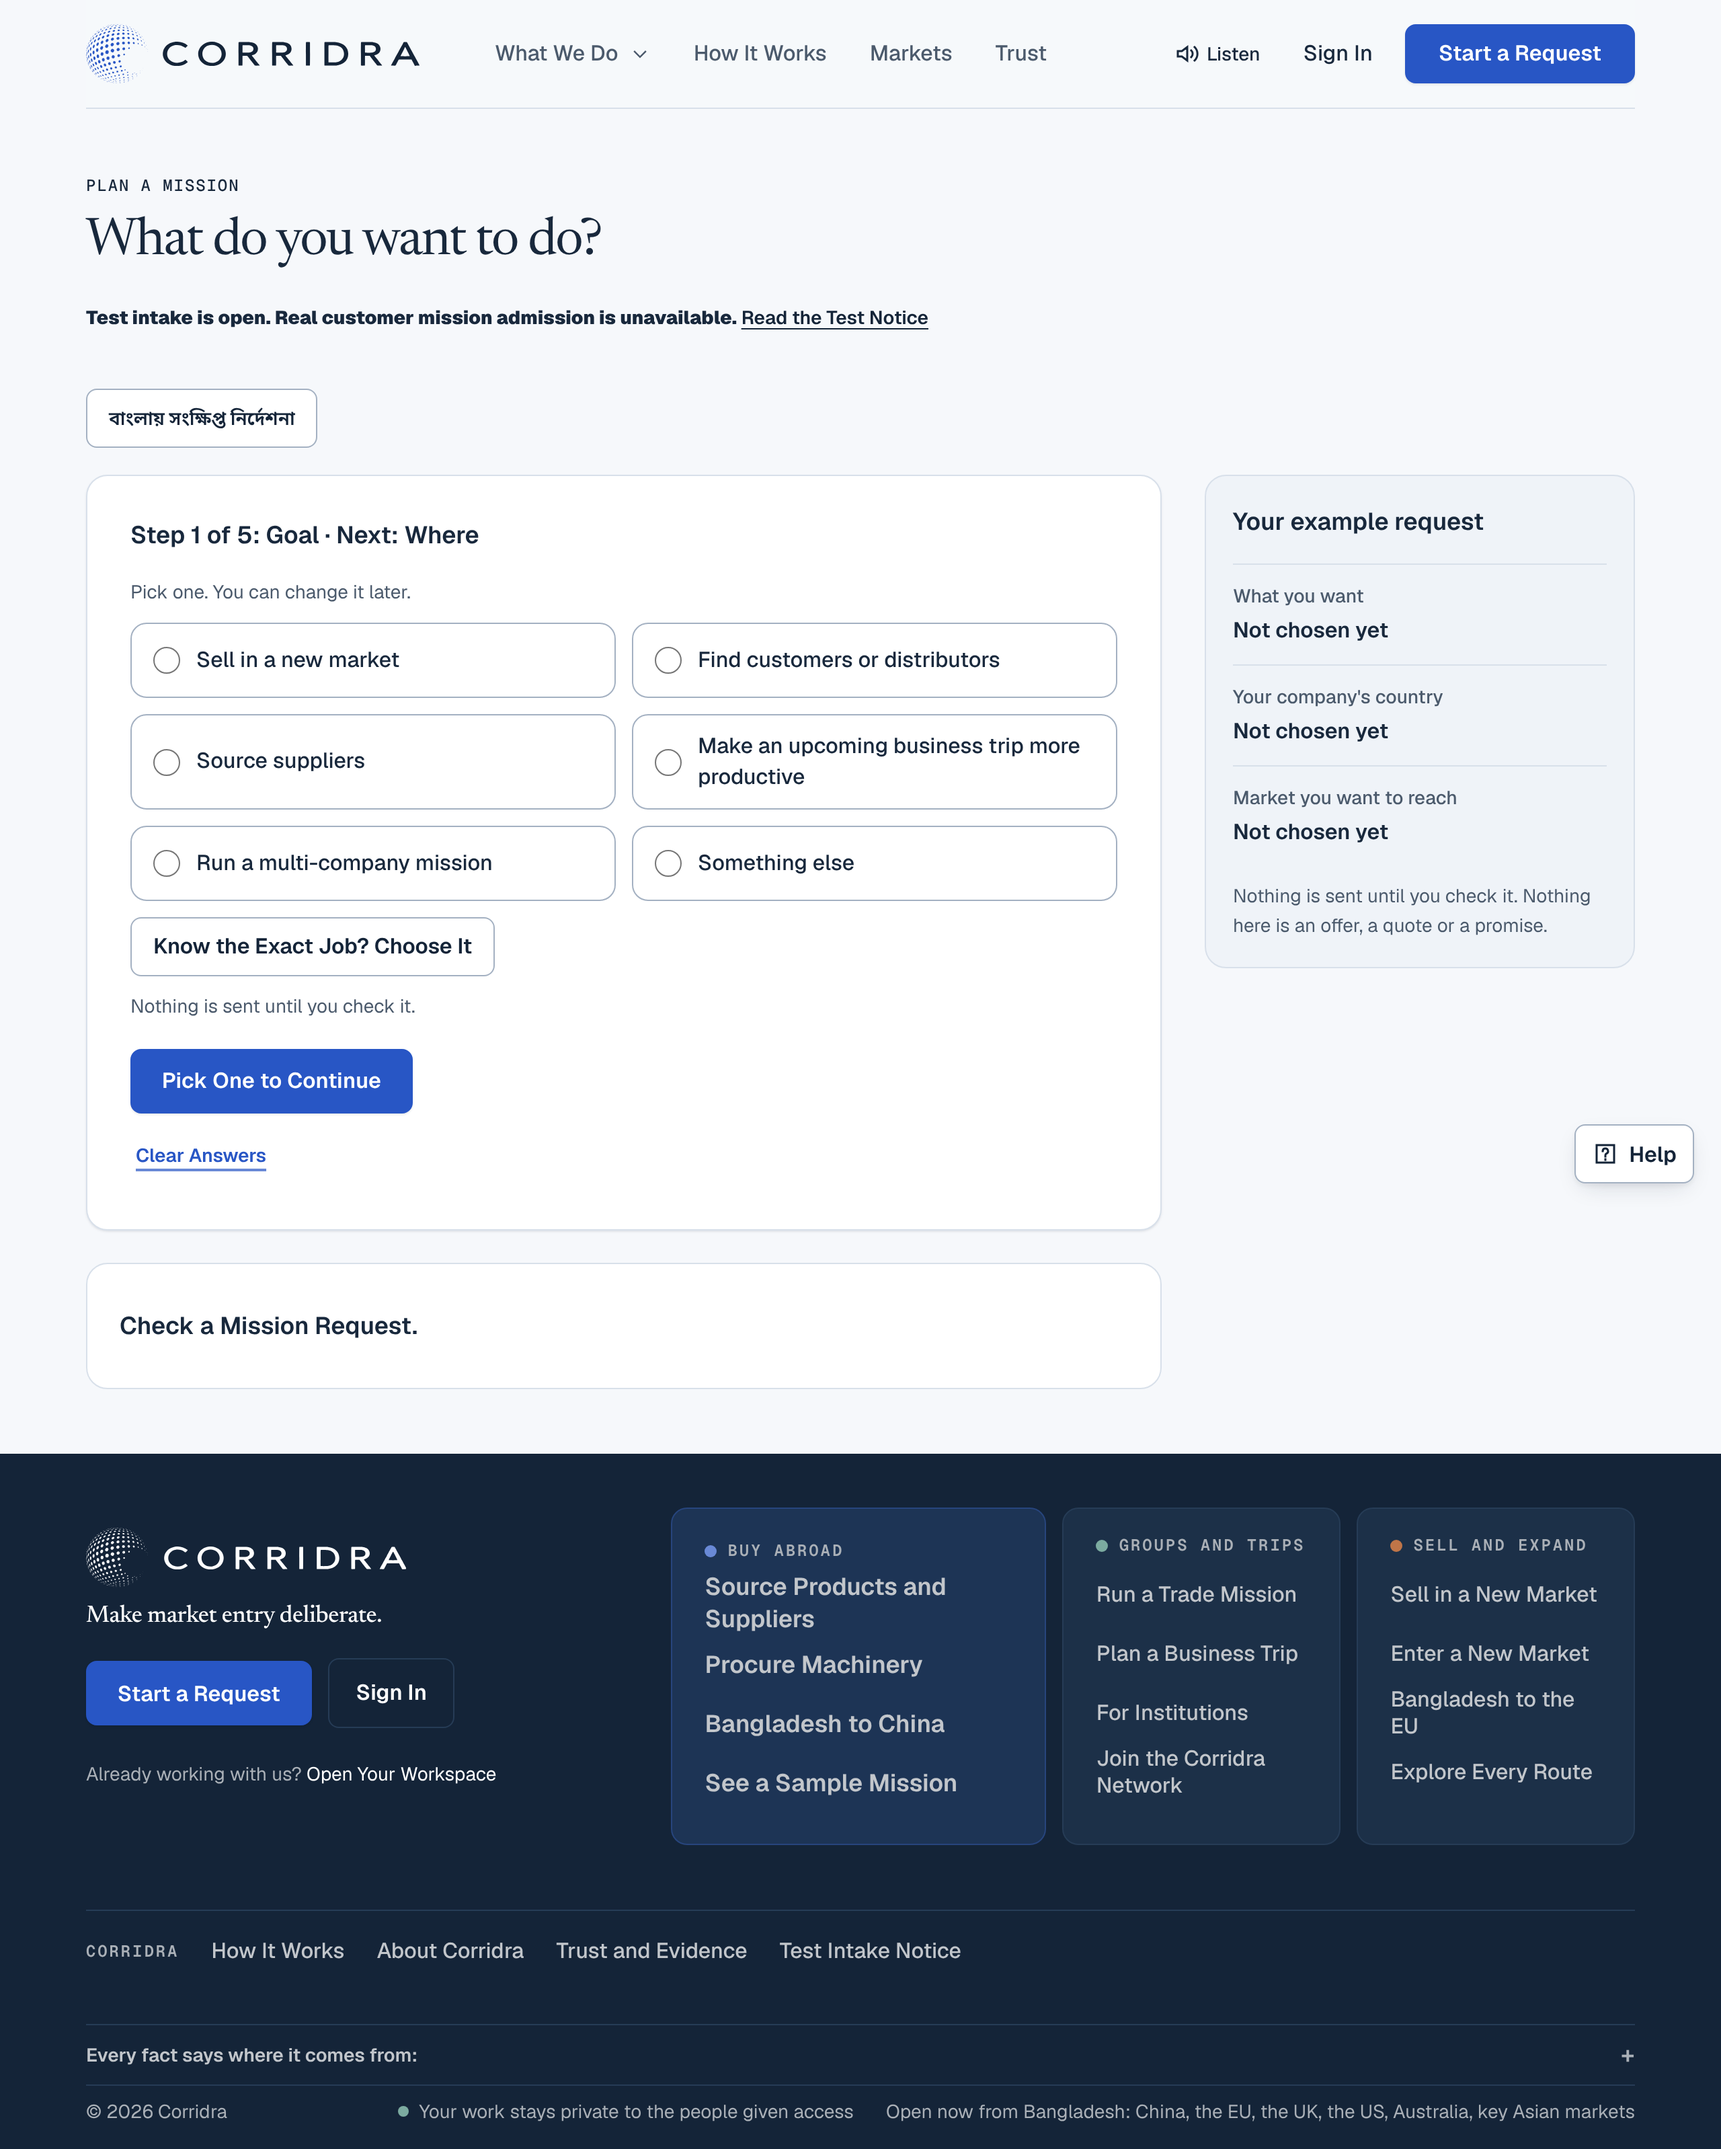
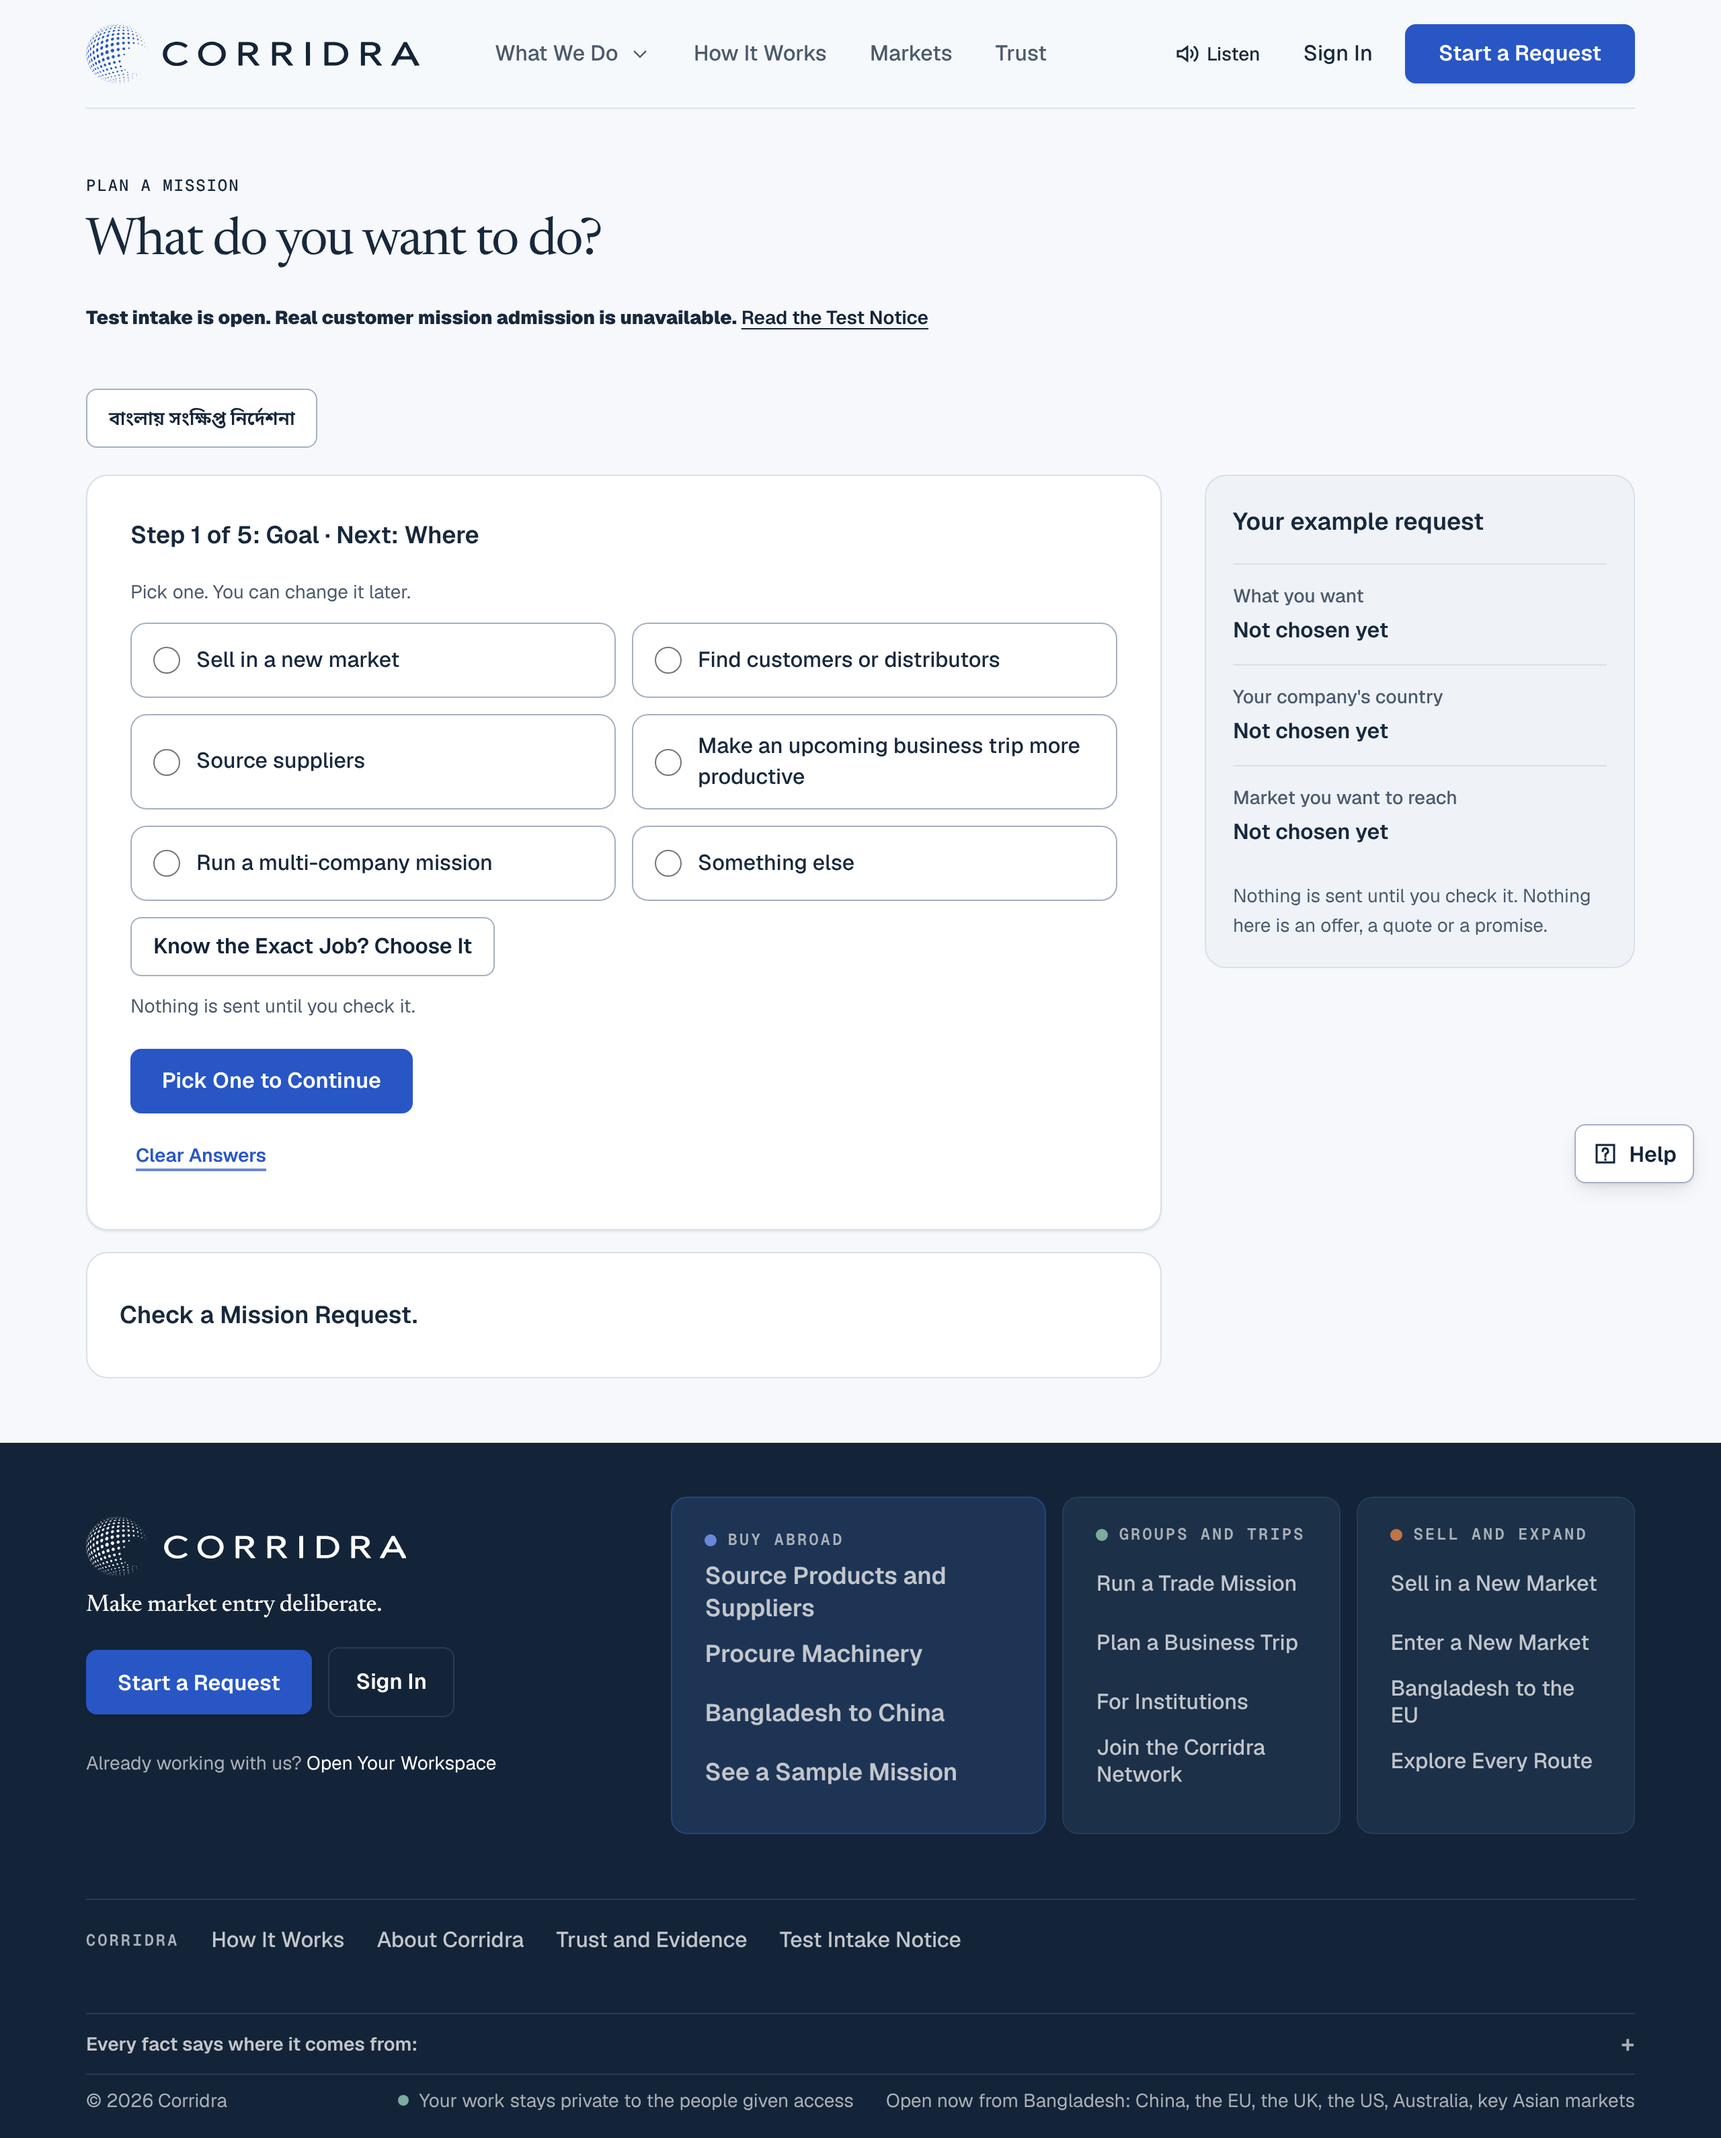
B2a plan flow: receipt check follows the form at a closer gap (UX gate /plan)
The UX gate samples /plan after 30 Tab presses. With the receipt check under
the form the wide page grew, and at that sampled scroll position a form control
sat partly under the sticky site header, which axe counts as target-size. The
form-to-receipt gap is now one token step smaller from 1001 px; the gate's
/plan case passes with the baseline unchanged. Screenshots refreshed.

Claude-Session: https://claude.ai/code/session_0187kU9rFzzg6YEHHjKguUbX

diff --git a/apps/web/app/globals.css b/apps/web/app/globals.css
@@ -9017,6 +9017,8 @@ samp {
     display: grid;
     grid-column: 1;
     grid-row: 1;
+    /* The receipt check follows the form closely, as its quiet second part. */
+    row-gap: var(--space-4);
   }
   .guide-plan-body:has(.ux-brief-summary):not(
       :has(.ux-job-choice, .receipt-saved, .receipt-panel:not(#receipt-check))
